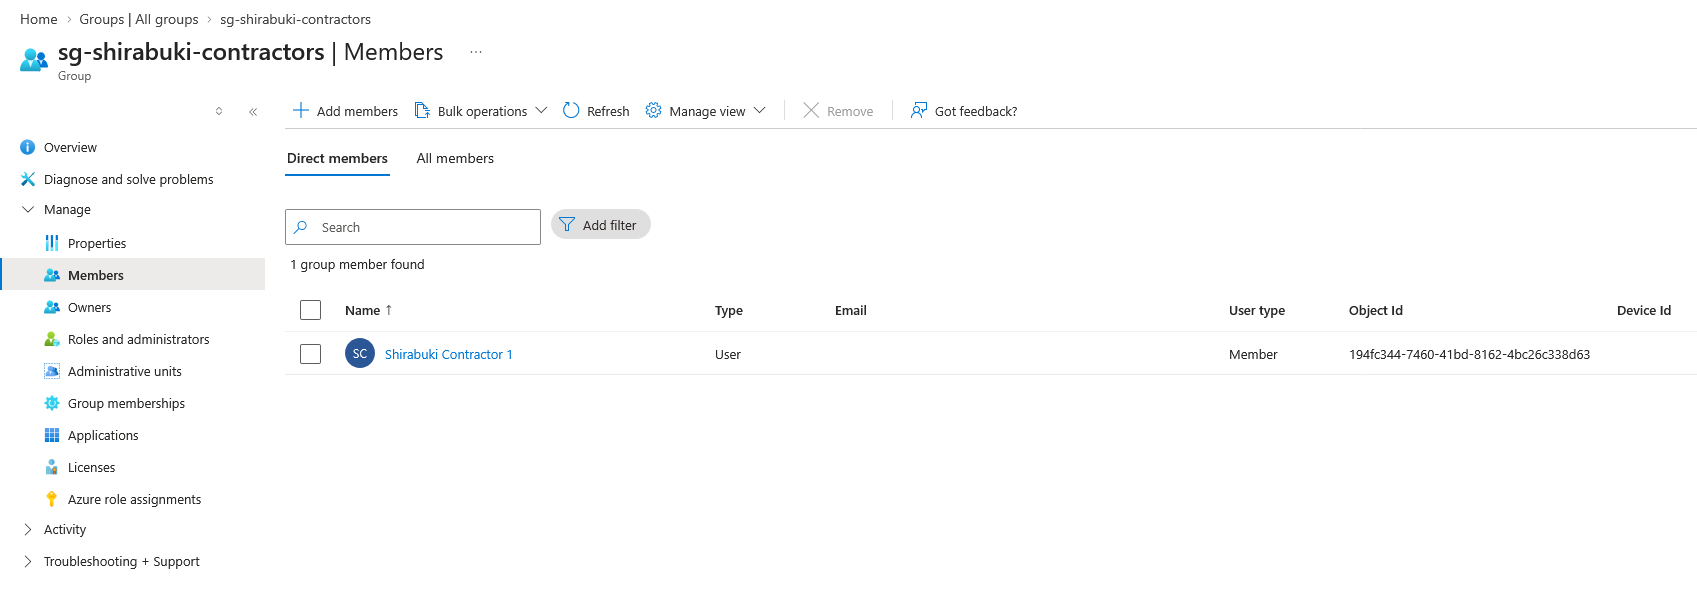
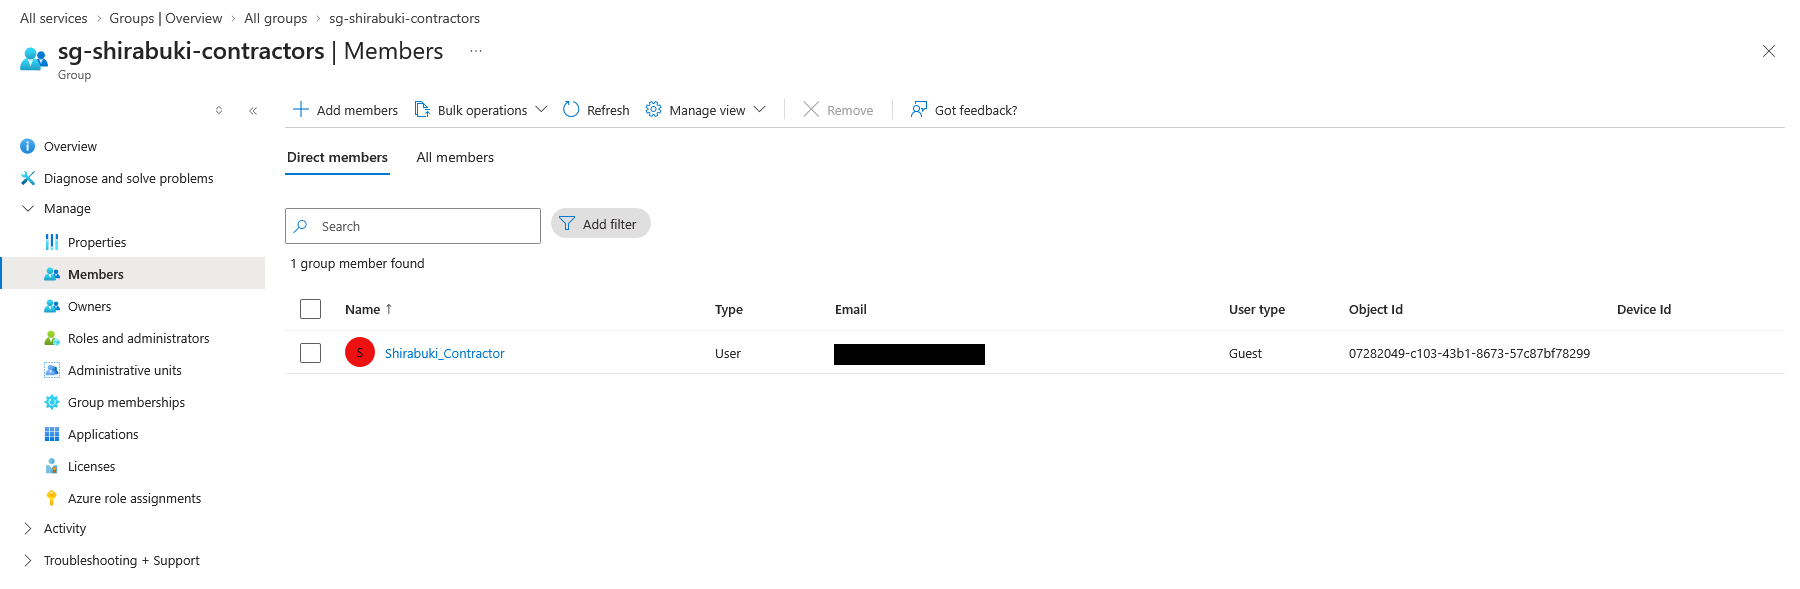
Add RBAC role files and update READMEs
Add a new 02.RBAC_Roles section with a custom Employee role definition (EmployeeCustomRoleDefinition.json), supporting README and role-assignment screenshots. Update 01.Users_And_Groups/README.md to clarify external contractor handling and ownership decisions. Update top-level README.md with a project structure snippet, scenarios table, and minor wording fixes. These changes document role design, assignments, and project organization for the IAM  least-privilege lab.

diff --git a/02.RBAC_Roles/README.md b/02.RBAC_Roles/README.md
@@ -1,0 +1,41 @@
+## Summary
+After building out the users and groups, I designed a tiered role structure. Administrators in this resource group had a broad, but access-limited role, employees were given a custom read/write role, and contractors were given a read-only access role. With this portion of the project, I wanted to create roles that would mimic production environments that I had seen in enterprise environments.
+
+## The Problem
+Shirabuki Corp needs a form of access-control for their users and groups. Groups and users exist, but have no permissions assigned or granted yet. Broadly speaking, the administrators should be able to manage most of the resource group, the employees should be able to work without being able to delete items in the RG, and contractors should only have visibility privileges.
+
+## What Was Built
+- Roles for each group of users
+   - Administrators: Contributor (Built-in), and assigned to "sg-shirabuki-admins"
+   - Employee Role: Custom Role (Shirabuki_Employee_Custom_Role), and assigned to "sg-shirabuki-employees"
+      - See the [EmployeeCustomRoleDefinition.json](EmployeeCustomRoleDefinition.json) file for more detail.
+   - Contractors: Reader (Built-in), and assigned to "sg-shirabuki-contractors"
+
+## Decisions Made
+   -  Decisions
+      - Administrator Decisions
+         - Administrators were not granted owner permissions as they should not have the authority to have full access to other environments beyond their team scope.
+         - While assigning the Administrator role, I noticed that Azure's role picker separated "Job Function Roles" and "Privileged Administrator Roles." Contributor is categorized as the latter.
+         - In this project, the Admin persona's "Contributor" role is scoped narrowly to the Shirabuki Corporation resource group, mirroring how a team lead or platform engineer might hold broad control over their own team's environment,not unrestricted authority across an organization. In a real enterprise, granting even this scoped "Contributor" role would typically go through a dedicated IAM/platform team and a formal request process, rather than being self-assigned or freely available. This project's root tenant account acts as a stand-in for that centralized authority.
+      - Employee Decisions
+         - Decided on creating a custom role to specifically allow reading and managing the resource group, but without the deletion functionality, as an employee should not have the higher privilege of deleting information in the resource group unless explicitly agreed upon though reporting and change management procedures.
+         - I noted that due to the wildcard Read and Write functionality, the employee custom role was elevated to privileged administrator roles. Based on Microsoft's own documentation, this classification is based on scope of granted permissions. Broad write access, specifically, automatically placed this custom role within the privileged administartor role, and warrants careful consideration for such powerful permissions.
+      - Contractor Decisions
+         - Initially looked to create a custom role, but realized that there was an in-built "Reader" role that fit my needs.
+
+
+## Screenshots
+- Creating Role Assignment for "sg-shirabuki-admins"
+![Microsoft Azure screenshot of Admin Role Assignment](Screenshots/Administrator_Security_Group_Role_Assignment.png)
+
+- Creating Custom Role for "sg-shirabuki-employees"
+![Microsoft Azure screenshot of Custom Employee Role](Screenshots/Employee_Security_Group_Role_Creation.png)
+
+- Creating Role Assignment for "sg-shirabuki-employees"
+![Microsoft Azure screenshot of Employee Role Assignment](Screenshots/Employee_Security_Group_Role_Assignment.png)
+
+- Creating Role Assignment for "sg-shirabuki-contractors"
+![Microsoft Azure screenshot of Contractor Role Assignment](Screenshots/Contractor_Security_Group_Role_Assignment.png)
+
+- List of Role Assignments
+![Microsoft Azure screenshot of Role Assignments list](Screenshots/List_Of_Security_Group_Role_Assignments.png)

diff --git a/01.Users_And_Groups/README.md b/01.Users_And_Groups/README.md
@@ -3,7 +3,7 @@ For the fictionalized Shirabuki Corporation, I decided to create distinct users,
 This was an important distinction as I wanted to closely emulate real-world enterprise environments without overcomplicating my understanding of the concepts at play.
 
 ## The Problem
-Shirabuki Corporation currently has two administrators, three employees, and one contractor. Shirabuki Corporation wants each user to be grouped by their role, and have access controls per role assignment.
+Shirabuki Corporation currently has two administrators, three employees, and one contractor from a third party company. Shirabuki Corporation wants each user to be grouped by their role, and have access controls to the resource group per their role assignment.
 
 ## What Was Built
 - Resource Group
@@ -11,7 +11,7 @@ Shirabuki Corporation currently has two administrators, three employees, and one
 - Users
    - Two administrator accounts (Shirabuki Admin 1 and Shirabuki Admin 2)
    - Three employee accounts (Shirabuki Employee 1, Shirabuki Employee 2, Shirabuki Employee 3)
-   - One contractor account (Shirabuki Contractor 1)
+   - One external contractor account (Shirabuki Contractor)
 - Security Groups
    - sg-shirabuki-admins
    - sg-shirabuki-employees
@@ -19,9 +19,13 @@ Shirabuki Corporation currently has two administrators, three employees, and one
 - Roles
    - Scoped within 02.RBAC_Roles/README.md
 
-## Ownership Decisions
-The group "sg-shirabuki-admins" is owned by the root tenant account, in this case, my personal account. I had initially wanted the administrators to own their own security group, but upon closer scrutinization, I realized this would lead to a recursive path of ownership.
-Both the employees and contractors security groups are owned by Admins 1 and 2. While working on this section, I wanted the admin security group to own the employee and contractors group, but this couldn't be done due to limitations of EntraID, but also, a user should own a different group, as having a whole group owning another could lead to non-separated duties, leading to issues with accountability and auditability for which admin performed which action.
+## Decisions Made
+   - Ownership Decisions
+
+      The group "sg-shirabuki-admins" is owned by the root tenant account, in this case, my personal account. I had initially wanted the administrators to own their own security group, but upon closer scrutinization, I realized this would lead to a recursive path of ownership. Both the employees and contractors security groups are jointly owned by Admins 1 and 2. While working on this section, I wanted the admin security group to own the employee and contractors group, but this couldn't be done due to limitations of EntraID, but also, a user should own a different group, as having a whole group owning another could lead to non-separated duties, leading to issues with accountability and auditability for which admin performed which action.
+   - External Contractor Decisions
+
+      To tie the contractor role closer to production level environments, I used a spare email account to act as the third party contractor to be invited. I noted that guest users can belong to groups in the same way member accounts can, and specifically bringing an external user as a contractor/vendor can reflect how enterprise organizations distinguish the access of employees versus third parties. This includes separate governance measures, and in a production environment with P2 licensing, automatic access expiration tied to contract duration.
 
 ## Screenshots
 - Users List

diff --git a/README.md b/README.md
@@ -3,7 +3,7 @@
 Demonstrating least-privilege IAM design in Microsoft Azure's EntraID using free-tier RBAC and Security Defaults.
 
 ## Project Overview
-This project is designed to leverage free Azure resources to understand and practice IAM principles for a fictionalized organization (Shirabuki Corp). The primary goal of this project is to build a practical, demonstrable experience  with enterprise access control patterns before applying them in a production environment. With Shirabuki Corp., there are two admins, three employees, and one contractor.
+This project is designed to leverage free Azure resources to understand and practice IAM principles for a fictionalized organization called Shirabuki Corporation. The primary goal of this project is to build a practical, demonstrable experience  with enterprise access control patterns before applying them in a production environment. Shirabuki Corp. has two admins, three employees, and one contractor.
 
 ## Skills Demonstrated
 - Least privilege access design
@@ -20,15 +20,27 @@ This project is designed to leverage free Azure resources to understand and prac
 - Markdown
 
 ## Project Structure
-TBD
+```
+Azure_IAM_Least_Privilege_Lab/
+├── README.md
+├── LICENSE
+├── 01_Users_and_Groups/
+│   ├── README.md
+│   └── Screenshots/
+├── 02_RBAC_Roles/          (in progress)
+└── 
+```
 
 ## Scenarios and Table of Contents
-TBD
+| Scenario | Description | Status |
+|---|---|---|
+| [01 - Users and Groups](./01_Users_and_Groups/README.md) | Personas, security groups, and ownership/governance decisions for Shirabuki Corp | ✅ Complete |
+| [02 - RBAC Roles](./02_RBAC_Roles/README.md) | Custom least-privilege roles assigned to groups | 🔧 In Progress |
 
 ## Architecture Overview
 TBD
 
-## Prerequisistes
+## Prerequisites
 This project was built using only Microsoft Azure's free tier plan. To reproduce this project, the only things needed are:
 - Microsoft Account
 - Azure free tier tenant
